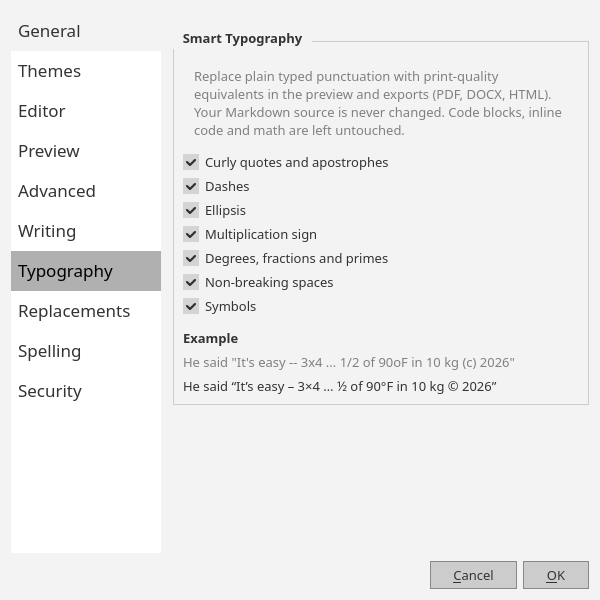
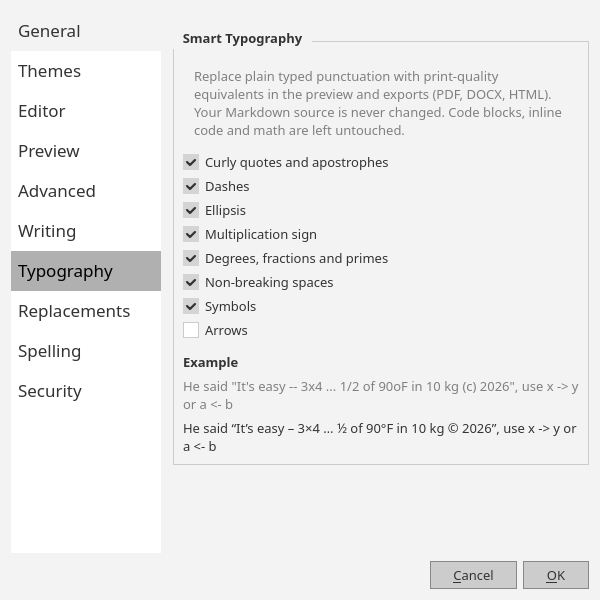
feat: certain glyphs added to be added to typography replacements e.g. -> / <= / etc

diff --git a/tests/test_typography.cpp b/tests/test_typography.cpp
@@ -163,24 +163,55 @@ TEST(TypographySymbols, NonMatches)
     EXPECT_EQ(typo(Option::Symbols, u"'(c)'"), QStringLiteral("'\u00A9'"));
 }
 
+TEST(TypographyArrows, Conversions)
+{
+    EXPECT_EQ(typo(Option::Arrows, u"a -> b"), QStringLiteral("a \u2192 b"));
+    EXPECT_EQ(typo(Option::Arrows, u"a<-b"), QStringLiteral("a\u2190b"));
+    EXPECT_EQ(typo(Option::Arrows, u"a <-> b"), QStringLiteral("a \u2194 b"));
+    EXPECT_EQ(typo(Option::Arrows, u"a => b"), QStringLiteral("a \u21D2 b"));
+    EXPECT_EQ(typo(Option::Arrows, u"a<=b"), QStringLiteral("a\u2264b"));
+    EXPECT_EQ(typo(Option::Arrows, u"a>=b"), QStringLiteral("a\u2265b"));
+    EXPECT_EQ(typo(Option::Arrows, u"a!=b"), QStringLiteral("a\u2260b"));
+    EXPECT_EQ(typo(Option::Arrows, u"+-"), QStringLiteral("\u00B1"));
+    EXPECT_EQ(typo(Option::Arrows, u"3 +- 1"), QStringLiteral("3 \u00B1 1"));
+}
+
+TEST(TypographyArrows, NonMatches)
+{
+    EXPECT_EQ(typo(Option::Arrows, u"a-b"), QStringLiteral("a-b"));
+    EXPECT_EQ(typo(Option::Arrows, u"a-b>"), QStringLiteral("a-b>"));
+    EXPECT_EQ(typo(Option::Arrows, u"x < y"), QStringLiteral("x < y"));
+    EXPECT_EQ(typo(Option::Arrows, u"==>"), QStringLiteral("=\u21D2"));
+    EXPECT_EQ(typo(Option::Arrows, u"a=b"), QStringLiteral("a=b"));
+    EXPECT_EQ(typo(Option::Arrows, u"->x"), QStringLiteral("\u2192x"));
+}
+
+TEST(TypographyArrows, BeatsDashes)
+{
+    EXPECT_EQ(typo(Option::Arrows | Option::Dashes, u"a->b"), QStringLiteral("a\u2192b"));
+    EXPECT_EQ(typo(Option::Arrows | Option::Dashes, u"a--b"), QStringLiteral("a\u2013b"));
+    EXPECT_EQ(typo(Option::Arrows | Option::Dashes, u"a-b"), QStringLiteral("a\u2010b"));
+}
+
 TEST(TypographyMath, SkipsMathRegions)
 {
     const auto all = Option::Quotes | Option::Dashes | Option::Ellipsis
                    | Option::Multiplication | Option::DegreeFractionPrime | Option::NonBreakingSpace
-                   | Option::Symbols;
+                   | Option::Symbols | Option::Arrows;
     EXPECT_EQ(typo(all, u"$1/2$"), QStringLiteral("$1/2$"));
     EXPECT_EQ(typo(all, u"$$x--y$$"), QStringLiteral("$$x--y$$"));
     EXPECT_EQ(typo(all, u"$3x4$"), QStringLiteral("$3x4$"));
     EXPECT_EQ(typo(all, u"$5.00"), QStringLiteral("$5.00"));
     EXPECT_EQ(typo(all, u"$1/2$ and 3x4"), QStringLiteral("$1/2$ and 3\u00D74"));
     EXPECT_EQ(typo(all, u"$(c)$"), QStringLiteral("$(c)$"));
+    EXPECT_EQ(typo(all, u"$a -> b$"), QStringLiteral("$a -> b$"));
 }
 
 TEST(TypographyMath, KitchensinkMathUntouched)
 {
     const auto all = Option::Quotes | Option::Dashes | Option::Ellipsis
                    | Option::Multiplication | Option::DegreeFractionPrime | Option::NonBreakingSpace
-                   | Option::Symbols;
+                   | Option::Symbols | Option::Arrows;
     EXPECT_EQ(typo(all, u"Inline math: $E = mc^2$, $\\sum_{i=1}^{n} x_i$, $\\int_0^\\infty e^{-x} \\, dx$"),
               QStringLiteral("Inline math: $E = mc^2$, $\\sum_{i=1}^{n} x_i$, $\\int_0^\\infty e^{-x} \\, dx$"));
     EXPECT_EQ(typo(all, u"$\\ce{CH4 + 2O2 -> CO2 + 2H2O}$"),
@@ -201,6 +232,7 @@ TEST(TypographyMath, FullKitchensinkMathUntouched)
     settings.setValue(Preferences::TypographyDegreeFractionPrime, true);
     settings.setValue(Preferences::TypographyNbsp, true);
     settings.setValue(Preferences::TypographySymbols, true);
+    settings.setValue(Preferences::TypographyArrows, true);
     settings.sync();
 
     QFile file(QStringLiteral("docs/kitchensink.md"));
@@ -229,13 +261,15 @@ TEST(TypographyMath, FullKitchensinkMathUntouched)
     EXPECT_FALSE(mathContent.contains(QStringLiteral("\u2026")));
     EXPECT_FALSE(mathContent.contains(QStringLiteral("\u2018")));
     EXPECT_FALSE(mathContent.contains(QStringLiteral("\u2019")));
-    EXPECT_FALSE(mathContent.contains(QStringLiteral("\u201C")));
     EXPECT_FALSE(mathContent.contains(QStringLiteral("\u201D")));
+    EXPECT_FALSE(mathContent.contains(QStringLiteral("\u2192")));
+    EXPECT_FALSE(mathContent.contains(QStringLiteral("\u2264")));
+    EXPECT_FALSE(mathContent.contains(QStringLiteral("\u2265")));
 
     for (const auto &key : { Preferences::TypographyQuotes, Preferences::TypographyDashes,
                              Preferences::TypographyEllipsis, Preferences::TypographyMultiplication,
                              Preferences::TypographyDegreeFractionPrime, Preferences::TypographyNbsp,
-                             Preferences::TypographySymbols })
+                             Preferences::TypographySymbols, Preferences::TypographyArrows })
         settings.remove(key);
 }
 
@@ -252,6 +286,7 @@ TEST(TypographySettings, RoundTrip)
     settings.setValue(Preferences::TypographyDashes, true);
     settings.setValue(Preferences::TypographyNbsp, true);
     settings.setValue(Preferences::TypographySymbols, true);
+    settings.setValue(Preferences::TypographyArrows, true);
     settings.sync();
 
     const auto opts = Typography::optionsFromSettings();
@@ -259,6 +294,7 @@ TEST(TypographySettings, RoundTrip)
     EXPECT_TRUE(opts.testFlag(Option::Dashes));
     EXPECT_TRUE(opts.testFlag(Option::NonBreakingSpace));
     EXPECT_TRUE(opts.testFlag(Option::Symbols));
+    EXPECT_TRUE(opts.testFlag(Option::Arrows));
     EXPECT_FALSE(opts.testFlag(Option::Ellipsis));
     EXPECT_FALSE(opts.testFlag(Option::Multiplication));
     EXPECT_FALSE(opts.testFlag(Option::DegreeFractionPrime));
@@ -267,6 +303,7 @@ TEST(TypographySettings, RoundTrip)
     settings.remove(Preferences::TypographyDashes);
     settings.remove(Preferences::TypographyNbsp);
     settings.remove(Preferences::TypographySymbols);
+    settings.remove(Preferences::TypographyArrows);
 }
 
 TEST(TypographyIntegration, RendererConvertsParagraphText)
@@ -320,10 +357,31 @@ TEST(TypographyIntegration, ParagraphBoundaryOpeningQuote)
     settings.remove(Preferences::TypographyQuotes);
 }
 
+TEST(TypographyIntegration, ArrowsConvertAndSkipMath)
+{
+    QSettings settings;
+    settings.setValue(Preferences::TypographyArrows, true);
+    settings.sync();
+
+    const QString html = MarkdownParser::toHtml("x -> y and a<=b");
+    EXPECT_TRUE(html.contains(QStringLiteral("\u2192")));
+    EXPECT_TRUE(html.contains(QStringLiteral("\u2264")));
+    EXPECT_FALSE(html.contains("->"));
+
+    const QString math = MarkdownParser::toHtml("$\\ce{CH4 + 2O2 -> CO2}$");
+    EXPECT_TRUE(math.contains("-&gt;"));
+
+    const QString code = MarkdownParser::toHtml("`a->b`");
+    EXPECT_TRUE(code.contains("<code>a-&gt;b</code>") || code.contains("<code>a->b</code>"));
+
+    settings.remove(Preferences::TypographyArrows);
+}
+
 TEST(TypographyIntegration, DefaultOffPreservesOldOutput)
 {
-    const QString html = MarkdownParser::toHtml("he said \"hi\" -- 4x4 ...");
+    const QString html = MarkdownParser::toHtml("he said \"hi\" -- 4x4 ... x -> y");
     EXPECT_TRUE(html.contains("&quot;hi&quot;"));
     EXPECT_TRUE(html.contains("--"));
     EXPECT_TRUE(html.contains("4x4"));
+    EXPECT_TRUE(html.contains("-&gt;"));
 }

diff --git a/src/PreferencesDialog.cpp b/src/PreferencesDialog.cpp
@@ -913,11 +913,16 @@ void PreferencesDialog::setupUi(const QString &themeBgColor, const QString &them
         m_typographySymbolsCheck->setChecked(settings.value(Preferences::TypographySymbols, false).toBool());
         groupLayout->addWidget(m_typographySymbolsCheck);
 
+        m_typographyArrowsCheck = new QCheckBox(tr("Arrows"));
+        m_typographyArrowsCheck->setToolTip(tr("-> <- => <-> become \u2192 \u2190 \u21d2 \u2194; <= >= != +- become \u2264 \u2265 \u2260 \u00b1"));
+        m_typographyArrowsCheck->setChecked(settings.value(Preferences::TypographyArrows, false).toBool());
+        groupLayout->addWidget(m_typographyArrowsCheck);
+
         groupLayout->addSpacing(8);
         auto *exampleLabel = new QLabel(tr("<b>Example</b>"));
         groupLayout->addWidget(exampleLabel);
 
-        const QString sample = QStringLiteral("He said \"It's easy -- 3x4 ... 1/2 of 90oF in 10 kg (c) 2026\"");
+        const QString sample = QStringLiteral("He said \"It's easy -- 3x4 ... 1/2 of 90oF in 10 kg (c) 2026\", use x -> y or a <- b");
         m_typographyPlainLabel = new QLabel(sample);
         m_typographyPlainLabel->setWordWrap(true);
         m_typographyPlainLabel->setStyleSheet("color: gray;");
@@ -944,13 +949,15 @@ void PreferencesDialog::setupUi(const QString &themeBgColor, const QString &them
                 opts |= Typography::Option::NonBreakingSpace;
             if (m_typographySymbolsCheck->isChecked())
                 opts |= Typography::Option::Symbols;
+            if (m_typographyArrowsCheck->isChecked())
+                opts |= Typography::Option::Arrows;
             Typography::State state;
             m_typographyExampleLabel->setText(Typography::apply(sample, opts, state));
         };
         for (auto *cb : { m_typographyQuotesCheck, m_typographyDashesCheck,
                           m_typographyEllipsisCheck, m_typographyMultiplicationCheck,
                           m_typographyDegreeFractionPrimeCheck, m_typographyNbspCheck,
-                          m_typographySymbolsCheck })
+                          m_typographySymbolsCheck, m_typographyArrowsCheck })
             connect(cb, &QCheckBox::toggled, this, updateExample);
         updateExample();
 
@@ -1542,6 +1549,7 @@ void PreferencesDialog::setupUi(const QString &themeBgColor, const QString &them
         settings.setValue(Preferences::TypographyDegreeFractionPrime, m_typographyDegreeFractionPrimeCheck->isChecked());
         settings.setValue(Preferences::TypographyNbsp, m_typographyNbspCheck->isChecked());
         settings.setValue(Preferences::TypographySymbols, m_typographySymbolsCheck->isChecked());
+        settings.setValue(Preferences::TypographyArrows, m_typographyArrowsCheck->isChecked());
         QStringList autoCorrectPairs;
         for (int r = 0; r < m_replacementsTable->rowCount(); ++r) {
             const QString typo = m_replacementsTable->item(r, 0)

diff --git a/src/Typography.cpp b/src/Typography.cpp
@@ -212,6 +212,52 @@ QString Typography::apply(QStringView text, Options opts, State &state)
             continue;
         }
 
+        // --- Arrows and comparison signs: -> <- <-> => <= >= != +- ---
+        if (opts.testFlag(Option::Arrows)) {
+            if (c == QLatin1Char('-') && i + 1 < n && text[i + 1] == QLatin1Char('>')) {
+                append(QChar(0x2192)); // →
+                i += 2;
+                continue;
+            }
+            if (c == QLatin1Char('<')) {
+                if (i + 2 < n && text[i + 1] == QLatin1Char('-') && text[i + 2] == QLatin1Char('>')) {
+                    append(QChar(0x2194)); // ↔
+                    i += 3;
+                    continue;
+                }
+                if (i + 1 < n && text[i + 1] == QLatin1Char('-')) {
+                    append(QChar(0x2190)); // ←
+                    i += 2;
+                    continue;
+                }
+                if (i + 1 < n && text[i + 1] == QLatin1Char('=')) {
+                    append(QChar(0x2264)); // ≤
+                    i += 2;
+                    continue;
+                }
+            }
+            if (c == QLatin1Char('=') && i + 1 < n && text[i + 1] == QLatin1Char('>')) {
+                append(QChar(0x21D2)); // ⇒
+                i += 2;
+                continue;
+            }
+            if (c == QLatin1Char('>') && i + 1 < n && text[i + 1] == QLatin1Char('=')) {
+                append(QChar(0x2265)); // ≥
+                i += 2;
+                continue;
+            }
+            if (c == QLatin1Char('!') && i + 1 < n && text[i + 1] == QLatin1Char('=')) {
+                append(QChar(0x2260)); // ≠
+                i += 2;
+                continue;
+            }
+            if (c == QLatin1Char('+') && i + 1 < n && text[i + 1] == QLatin1Char('-')) {
+                append(QChar(0x00B1)); // ±
+                i += 2;
+                continue;
+            }
+        }
+
         // --- Dashes: --- -> em dash, -- -> en dash, - -> hyphen ---
         if (opts.testFlag(Option::Dashes) && c == QLatin1Char('-')) {
             if (i + 2 < n && text[i + 1] == QLatin1Char('-') && text[i + 2] == QLatin1Char('-')) {
@@ -431,5 +477,7 @@ Typography::Options Typography::optionsFromSettings()
         opts |= Option::NonBreakingSpace;
     if (settings.value(Preferences::TypographySymbols, false).toBool())
         opts |= Option::Symbols;
+    if (settings.value(Preferences::TypographyArrows, false).toBool())
+        opts |= Option::Arrows;
     return opts;
 }

diff --git a/src/Preferences.h b/src/Preferences.h
@@ -58,6 +58,7 @@ namespace Preferences {
     constexpr const char *TypographyDegreeFractionPrime = "typographyDegreeFractionPrime";
     constexpr const char *TypographyNbsp = "typographyNbsp";
     constexpr const char *TypographySymbols = "typographySymbols";
+    constexpr const char *TypographyArrows = "typographyArrows";
 
     constexpr const char *HeavyRenderDelay = "heavyRenderDelay";
     constexpr int DefaultHeavyRenderDelay = Debounce::HeavyRender;

diff --git a/src/Typography.h b/src/Typography.h
@@ -36,6 +36,7 @@ public:
         DegreeFractionPrime = 0x10, // 90oF, 1/2, 5'10 -> 90°F, ½, 5′10
         NonBreakingSpace    = 0x20, // a word, 10 kg -> non-breaking space
         Symbols             = 0x40, // (c) (r) (tm) (p) (sm) -> © ® ™ ℗ ℠
+        Arrows              = 0x80, // -> <- <-> => <= >= != +- -> → ← ↔ ⇒ ≤ ≥ ≠ ±
     };
     Q_DECLARE_FLAGS(Options, Option)
 

diff --git a/src/PreferencesDialog.h b/src/PreferencesDialog.h
@@ -124,6 +124,7 @@ private:
     QCheckBox *m_typographyDegreeFractionPrimeCheck = nullptr;
     QCheckBox *m_typographyNbspCheck = nullptr;
     QCheckBox *m_typographySymbolsCheck = nullptr;
+    QCheckBox *m_typographyArrowsCheck = nullptr;
     QLabel *m_typographyPlainLabel = nullptr;
     QLabel *m_typographyExampleLabel = nullptr;
     QCheckBox *m_centreSingleViewCheck;

diff --git a/docs/gotchas.md b/docs/gotchas.md
@@ -82,3 +82,24 @@ detaching a whole sublist re-cascades the following items
 (`4. foo/5. bar` → `6. foo/7. bar`). When no same-level ordered item precedes
 the outdented line, its own number is kept (so `2024.`-style lists survive).
 Outdenting an already-top-level line never touches numbers.
+
+## Typography arrows are render-time only
+
+The Smart Typography "Arrows" option converts `-> <- <-> => <= >= != +-` to
+`→ ← ↔ ⇒ ≤ ≥ ≠ ±` **in the preview and exports only** — the Markdown source in
+the editor keeps the ASCII form (see `Typography::apply` in `src/Typography.cpp`).
+Putting this in Typography (rather than the Replacements autocorrect list) is
+deliberate: pairs like `<=`/`>=`/`=>`/`!=` contain `=`, which the replacements
+table can't store (`typo=replacement` splits on `=`, and the save path rejects
+typos containing it), and the renderer sees `<->` as a single token, so the
+`<-`-prefix collision that would break keystroke-driven expansion doesn't apply.
+
+Behaviour to rely on when debugging:
+
+- The arrow rules run **before** the Dashes rules, so `a->b` becomes `a→b` even
+  when "Dashes" is also enabled, while `a--b` still becomes `a–b`. Order matters
+  only for the `-` trigger: keep the Arrows block ahead of the Dashes block in
+  `apply()`.
+- Math (`$...$`/`$$...$$`), code spans and fenced code never reach `apply()`:
+  `\ce{CH4 + 2O2 -> CO2}` inside `$...$` keeps `->` for KaTeX/mchem.
+- Like the other Typography toggles, `Arrows` defaults **off** and is opt-in.
